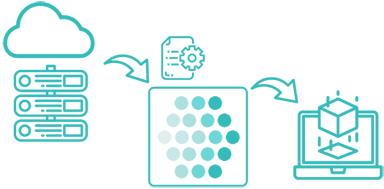
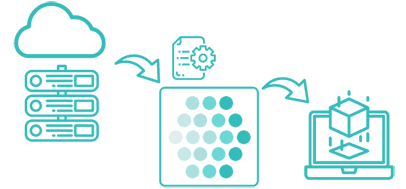
graphics and cosmetics
Adjust graphic sizes on Harmony page. Added Contact us link to all pages (nav and footer)

diff --git a/Pencil 9/harmony.html b/Pencil 9/harmony.html
@@ -92,12 +92,12 @@
                   <span aria-hidden="true" class="icon_menu hamb-mob-icon"></span>
                 </button>
               </div>
-					  </div>
+            </div>
 					</div>
-
+          
 					<!-- MAIN MENU CONTAINER -->
 					<div class="main-menu-container">
-					  <div class="container-m-30 clearfix">	
+					  <div class="container-m-30 clearfix">
 							<!-- MAIN MENU -->
 							<div id="main-menu">
 							  <div class="navbar navbar-default" role="navigation">
@@ -128,12 +128,12 @@
                         </ul>
                       </li>
       
-                      <!-- MENU ITEM
+                      <!-- CONTACT US MENU ITEM -->
                       <li>
-                        <a href="harmony.html">
-                          <div class="main-menu-title">DOWNLOAD ></div>
+                        <a href="index.html#contact">
+                          <div class="main-menu-title">Contact us</div>
                         </a>
-                      </li>-->
+                      </li>
       
                       <!-- MENU ITEM
                       <li>
@@ -196,7 +196,10 @@
           <div class="container">
             <div class="row">
               <div class="col-md-12 text-center">
-                <img src="images/harmony-banner.png" style="max-height:150px;">
+                <img src="images/harmony-banner.png" style="max-height:130px;">
+              </div>
+              <div class="harmony-coming-soon col-md-12 text-center">
+                Coming soon!
               </div>
             </div>
           </div>
@@ -207,9 +210,9 @@
 					<div class="container">
 						<div class="row" id="overview">
 
-							<div class="col-md-6 wow fadeInLeft">
+							<div class="harmony-overview col-md-6 wow fadeInLeft">
 								<div class="harmony-main-text-cont">
-                    <h3>Harmony automates standards and configurations for design applications</h3>
+                    <h3>Pencil 9 Harmony automates standards and configurations for design applications.</h3>
 								</div>
 							</div>
               
@@ -232,7 +235,7 @@
 					<div class="container">
 						<div class="row" id="howitworks">
             
-							<div class="col-md-6 left-50 wow fadeInRight equal-height">
+							<div class="harmony-overview col-md-6 left-50 wow fadeInRight equal-height">
 									<div class="harmony-main-text-cont">
 											<h3>Simply tell Harmony where your standards are and where they need to be deployed, alongside any configurations that need to be set. That's it!</h3>
 									</div>
@@ -250,7 +253,7 @@
 
             <div class="row">
 							
-							<div class="col-md-6 left-50 wow fadeInRight equal-height">
+							<div class="harmony-overview col-md-6 left-50 wow fadeInRight equal-height">
 									<div class="harmony-main-text-cont">
 											<h3>To automate a project in Bentley ProjectWise, just drop a "playlist" into the project!</h3>
 									</div>
@@ -269,7 +272,7 @@
 
             <div class="row">
 							
-							<div class="col-md-6 left-50 wow fadeInRight equal-height">
+							<div class="harmony-overview col-md-6 left-50 wow fadeInRight equal-height">
 									<div class="harmony-main-text-cont">
                       <h3>If working outside Bentley ProjectWise, simply launch Harmony, set your Standard and open your application!
 									</div>
@@ -635,8 +638,8 @@
               <div class="fes4-box wow fadeIn">
                 <h2 class="section-title"><span class="bold">Pricing</span></h2>
                 <br/>Pencil 9 has created a flexible pricing strategy suitable for any size organization.
-                Harmony is offered in Basic and Premium and is available for a per user/per month cost or for medium and larger organizations
-                an Enterprise subscription. Contact us to get a quote!
+                Pencil 9 Harmony is offered in Basic and Premium and is available for a per user/per month cost or
+                an Enterprise subscription. <a href="index.html#contact" style="color: #5097ac; text-decoration: none;">Contact us</a> to get a quote!
               </div>
             </div>
 
@@ -662,13 +665,13 @@
                 <div class="col-xs-3 col-sm-3 text-center">
                   Network*
                 </div>
-                <div class="col-xs-3 col-sm-3 text-center">
+                <div class="harmony-pricing-icon col-xs-3 col-sm-3 text-center">
                   <span class="fa fa-check"></span>
                 </div>
-                <div class="col-xs-3 col-sm-3 text-center">
+                <div class="harmony-pricing-icon col-xs-3 col-sm-3 text-center">
                   <span class="fa fa-check"></span>
                 </div>
-                <div class="col-xs-3 col-sm-3 text-center">
+                <div class="harmony-pricing-icon col-xs-3 col-sm-3 text-center">
                   <span class="fa fa-check"></span>
                 </div>
               </div>
@@ -677,13 +680,13 @@
                 <div class="col-xs-3 col-sm-3 text-center">
                   ProjectWise
                 </div>
-                <div class="col-xs-3 col-sm-3 text-center">
+                <div class="harmony-pricing-icon col-xs-3 col-sm-3 text-center">
                   <span class="fa fa-check"></span>
                 </div>
                 <div class="col-xs-3 col-sm-3 text-center">
-                  <span class="fa fa-ban"></span>
+                  <span class="fa fa-close"></span>
                 </div>
-                <div class="col-xs-3 col-sm-3 text-center">
+                <div class="harmony-pricing-icon col-xs-3 col-sm-3 text-center">
                   <span class="fa fa-check"></span>
                 </div>
               </div>
@@ -692,13 +695,13 @@
                 <div class="col-xs-3 col-sm-3 text-center">
                   Autodesk
                 </div>
-                <div class="col-xs-3 col-sm-3 text-center">
+                <div class="harmony-pricing-icon col-xs-3 col-sm-3 text-center">
                   <span class="fa fa-check"></span>
                 </div>
-                <div class="col-xs-3 col-sm-3 text-center">
+                <div class="harmony-pricing-icon col-xs-3 col-sm-3 text-center">
                   <span class="fa fa-check"></span>
                 </div>
-                <div class="col-xs-3 col-sm-3 text-center">
+                <div class="harmony-pricing-icon col-xs-3 col-sm-3 text-center">
                   <span class="fa fa-check"></span>
                 </div>
               </div>
@@ -707,13 +710,13 @@
                 <div class="col-xs-3 col-sm-3 text-center">
                   Bentley
                 </div>
-                <div class="col-xs-3 col-sm-3 text-center">
+                <div class="harmony-pricing-icon col-xs-3 col-sm-3 text-center">
                   <span class="fa fa-check"></span>
                 </div>
-                <div class="col-xs-3 col-sm-3 text-center">
+                <div class="harmony-pricing-icon col-xs-3 col-sm-3 text-center">
                   <span class="fa fa-check"></span>
                 </div>
-                <div class="col-xs-3 col-sm-3 text-center">
+                <div class="harmony-pricing-icon col-xs-3 col-sm-3 text-center">
                   <span class="fa fa-check"></span>
                 </div>
               </div>
@@ -722,13 +725,13 @@
                 <div class="col-xs-3 col-sm-3 text-center">
                   Support
                 </div>
-                <div class="col-xs-3 col-sm-3 text-center">
+                <div class="harmony-pricing-icon col-xs-3 col-sm-3 text-center">
                   <span class="fa fa-check"></span>
                 </div>
-                <div class="col-xs-3 col-sm-3 text-center">
+                <div class="harmony-pricing-icon col-xs-3 col-sm-3 text-center">
                   <span class="fa fa-check"></span>
                 </div>
-                <div class="col-xs-3 col-sm-3 text-center">
+                <div class="harmony-pricing-icon col-xs-3 col-sm-3 text-center">
                   <span class="fa fa-check"></span>
                 </div>
               </div>
@@ -757,7 +760,7 @@
                    <a href="#">Do I need multiple copies of my standards for working in and out of ProjectWise?</a>
                  </dt>
                  <dd>
-                   <b>No!</b> Harmony uses the same instance of your master standard no matter where it is stored, or where your teams are working. This also includes the CAD (Autodesk, Bentley, etc.) configurations as well!
+                   <b>No.</b> Harmony uses the same instance of your master standard no matter where it is stored, or where your teams are working. This also includes the CAD (Autodesk, Bentley, etc.) configurations as well!
                  </dd>
                  <dt>
                    <a href="#">Why use Harmony instead of built in functionality in tools such as ProjectWise?</a>
@@ -862,7 +865,8 @@
                 <li><a href="index.html">Home</a></li>
                 <li><a href="index.html#products-services">Our solutions</a></li>
                 <li><a href="https://apps.autodesk.com/All/en/List/Search?isAppSearch=True&searchboxstore=All&facet=&collection=&sort=&query=pencil+9" target="_blank">Pencil 9 on Autodesk Exchange</a></li>
-                </ul>
+                <li><a href="index.html#contact">Contact us</a></li>
+              </ul>
               </div>
               
               <div class="col-md-3 col-sm-3 widget">

diff --git a/Pencil 9/privacy.html b/Pencil 9/privacy.html
@@ -149,6 +149,13 @@
 												<li><a href="harmony.html">Harmony</a></li>
 												</ul>
 												</li>
+
+												<!-- CONTACT US MENU ITEM -->
+												<li>
+												<a href="index.html#contact">
+													<div class="main-menu-title">Contact us</div>
+												</a>
+												</li>
 				
 												<!-- MENU ITEM - PRODUCTS & SERVICES
 										<li>
@@ -195,12 +202,13 @@
               <div class="col-md-8">
                 <h1 class="page-title">Privacy Policy</h1>
               </div>
-              
+              <!--
               <div class="col-md-4">
                 <div class="breadcrumbs">
-                  <a href="index.html">HOME</a><span class="slash-divider">/</span><span class="bread-current">PRIVACY</span>
+                  <a href="index.html">Home</a><span class="slash-divider">/</span><span class="bread-current">Privacy</span>
                 </div>
-              </div>
+			  </div>
+			-->
               
             </div>
           </div>
@@ -388,6 +396,7 @@
 					<li><a href="index.html">Home</a></li>
 					<li><a href="index.html#products-services">Our solutions</a></li>
 					<li><a href="https://apps.autodesk.com/All/en/List/Search?isAppSearch=True&searchboxstore=All&facet=&collection=&sort=&query=pencil+9" target="_blank">Pencil 9 on Autodesk Exchange</a></li>
+					<li><a href="index.html#contact">Contact us</a></li>
 				  </ul>
 				</div>
 				

diff --git a/Pencil 9/index.html b/Pencil 9/index.html
@@ -164,6 +164,13 @@
                         <li><a href="harmony.html">Harmony</a></li>
                         </ul>
                       </li>
+
+                      <!-- CONTACT US MENU ITEM -->
+                      <li>
+                        <a href="#contact">
+                          <div class="main-menu-title">Contact us</div>
+                        </a>
+                      </li>
                     
 									  </ul>
 						  
@@ -1053,6 +1060,7 @@
                   <li><a href="index.html">Home</a></li>
                   <li><a href="index.html#products-development">Our solutions</a></li>
                   <li><a href="https://apps.autodesk.com/All/en/List/Search?isAppSearch=True&searchboxstore=All&facet=&collection=&sort=&query=pencil+9" target="_blank">Pencil 9 on Autodesk Exchange</a></li>
+                  <li><a href="#contact">Contact us</a></li>
                 </ul>
               </div>
               

diff --git a/Pencil 9/contract-sign.html b/Pencil 9/contract-sign.html
@@ -147,6 +147,13 @@
 													<li><a href="harmony.html">Harmony</a></li>
 													</ul>
 												</li>
+
+												<!-- CONTACT US MENU ITEM -->
+												<li>
+												<a href="index.html#contact">
+													<div class="main-menu-title">Contact us</div>
+												</a>
+												</li>
 				
 											</ul>
 				
@@ -254,7 +261,8 @@
             <li><a href="index.html">Home</a></li>
             <li><a href="index.html#products-services">Our solutions</a></li>
             <li><a href="https://apps.autodesk.com/All/en/List/Search?isAppSearch=True&searchboxstore=All&facet=&collection=&sort=&query=pencil+9" target="_blank">Pencil 9 on Autodesk Exchange</a></li>
-            </ul>
+			<li><a href="index.html#contact">Contact us</a></li>
+		</ul>
           </div>
           
           <div class="col-md-3 col-sm-3 widget">

diff --git a/Pencil 9/contract-decline.html b/Pencil 9/contract-decline.html
@@ -147,6 +147,13 @@
 													</ul>
 												</li>
 				
+												<!-- CONTACT US MENU ITEM -->
+												<li>
+													<a href="index.html#contact">
+													<div class="main-menu-title">Contact us</div>
+													</a>
+												</li>
+
 											</ul>
 				
 										</nav>
@@ -252,7 +259,8 @@
             <li><a href="index.html">Home</a></li>
             <li><a href="index.html#products-services">Our solutions</a></li>
             <li><a href="https://apps.autodesk.com/All/en/List/Search?isAppSearch=True&searchboxstore=All&facet=&collection=&sort=&query=pencil+9" target="_blank">Pencil 9 on Autodesk Exchange</a></li>
-            </ul>
+			<li><a href="index.html#contact">Contact us</a></li>	
+		</ul>
           </div>
           
           <div class="col-md-3 col-sm-3 widget">

diff --git a/Pencil 9/css/style.css b/Pencil 9/css/style.css
@@ -1353,6 +1353,10 @@ support for no js
   color: #33bcba;
   font-size: 30px;
 }
+
+.harmony-pricing-icon{
+  color: #33bcba;
+}
 /* End Pencil 9*/
 
 .fes4-title-cont h3, .title-18 {
@@ -1490,6 +1494,19 @@ support for no js
   font-size: 18px;
   margin-bottom: 7px;
   margin-top: 7px;
+}
+
+.harmony-overview h3 {
+  color: #4b4e53;
+  font-family: 'Open Sans', Arial, Helvetica, sans-serif;
+  /*font-weight: bold;*/
+  font-size: 24px;
+  margin-bottom: 7px;
+  margin-top: 7px;
+}
+
+.harmony-coming-soon{
+  font-size: 18px;
 }
 
 /* #FEATURES 6 #NEW
